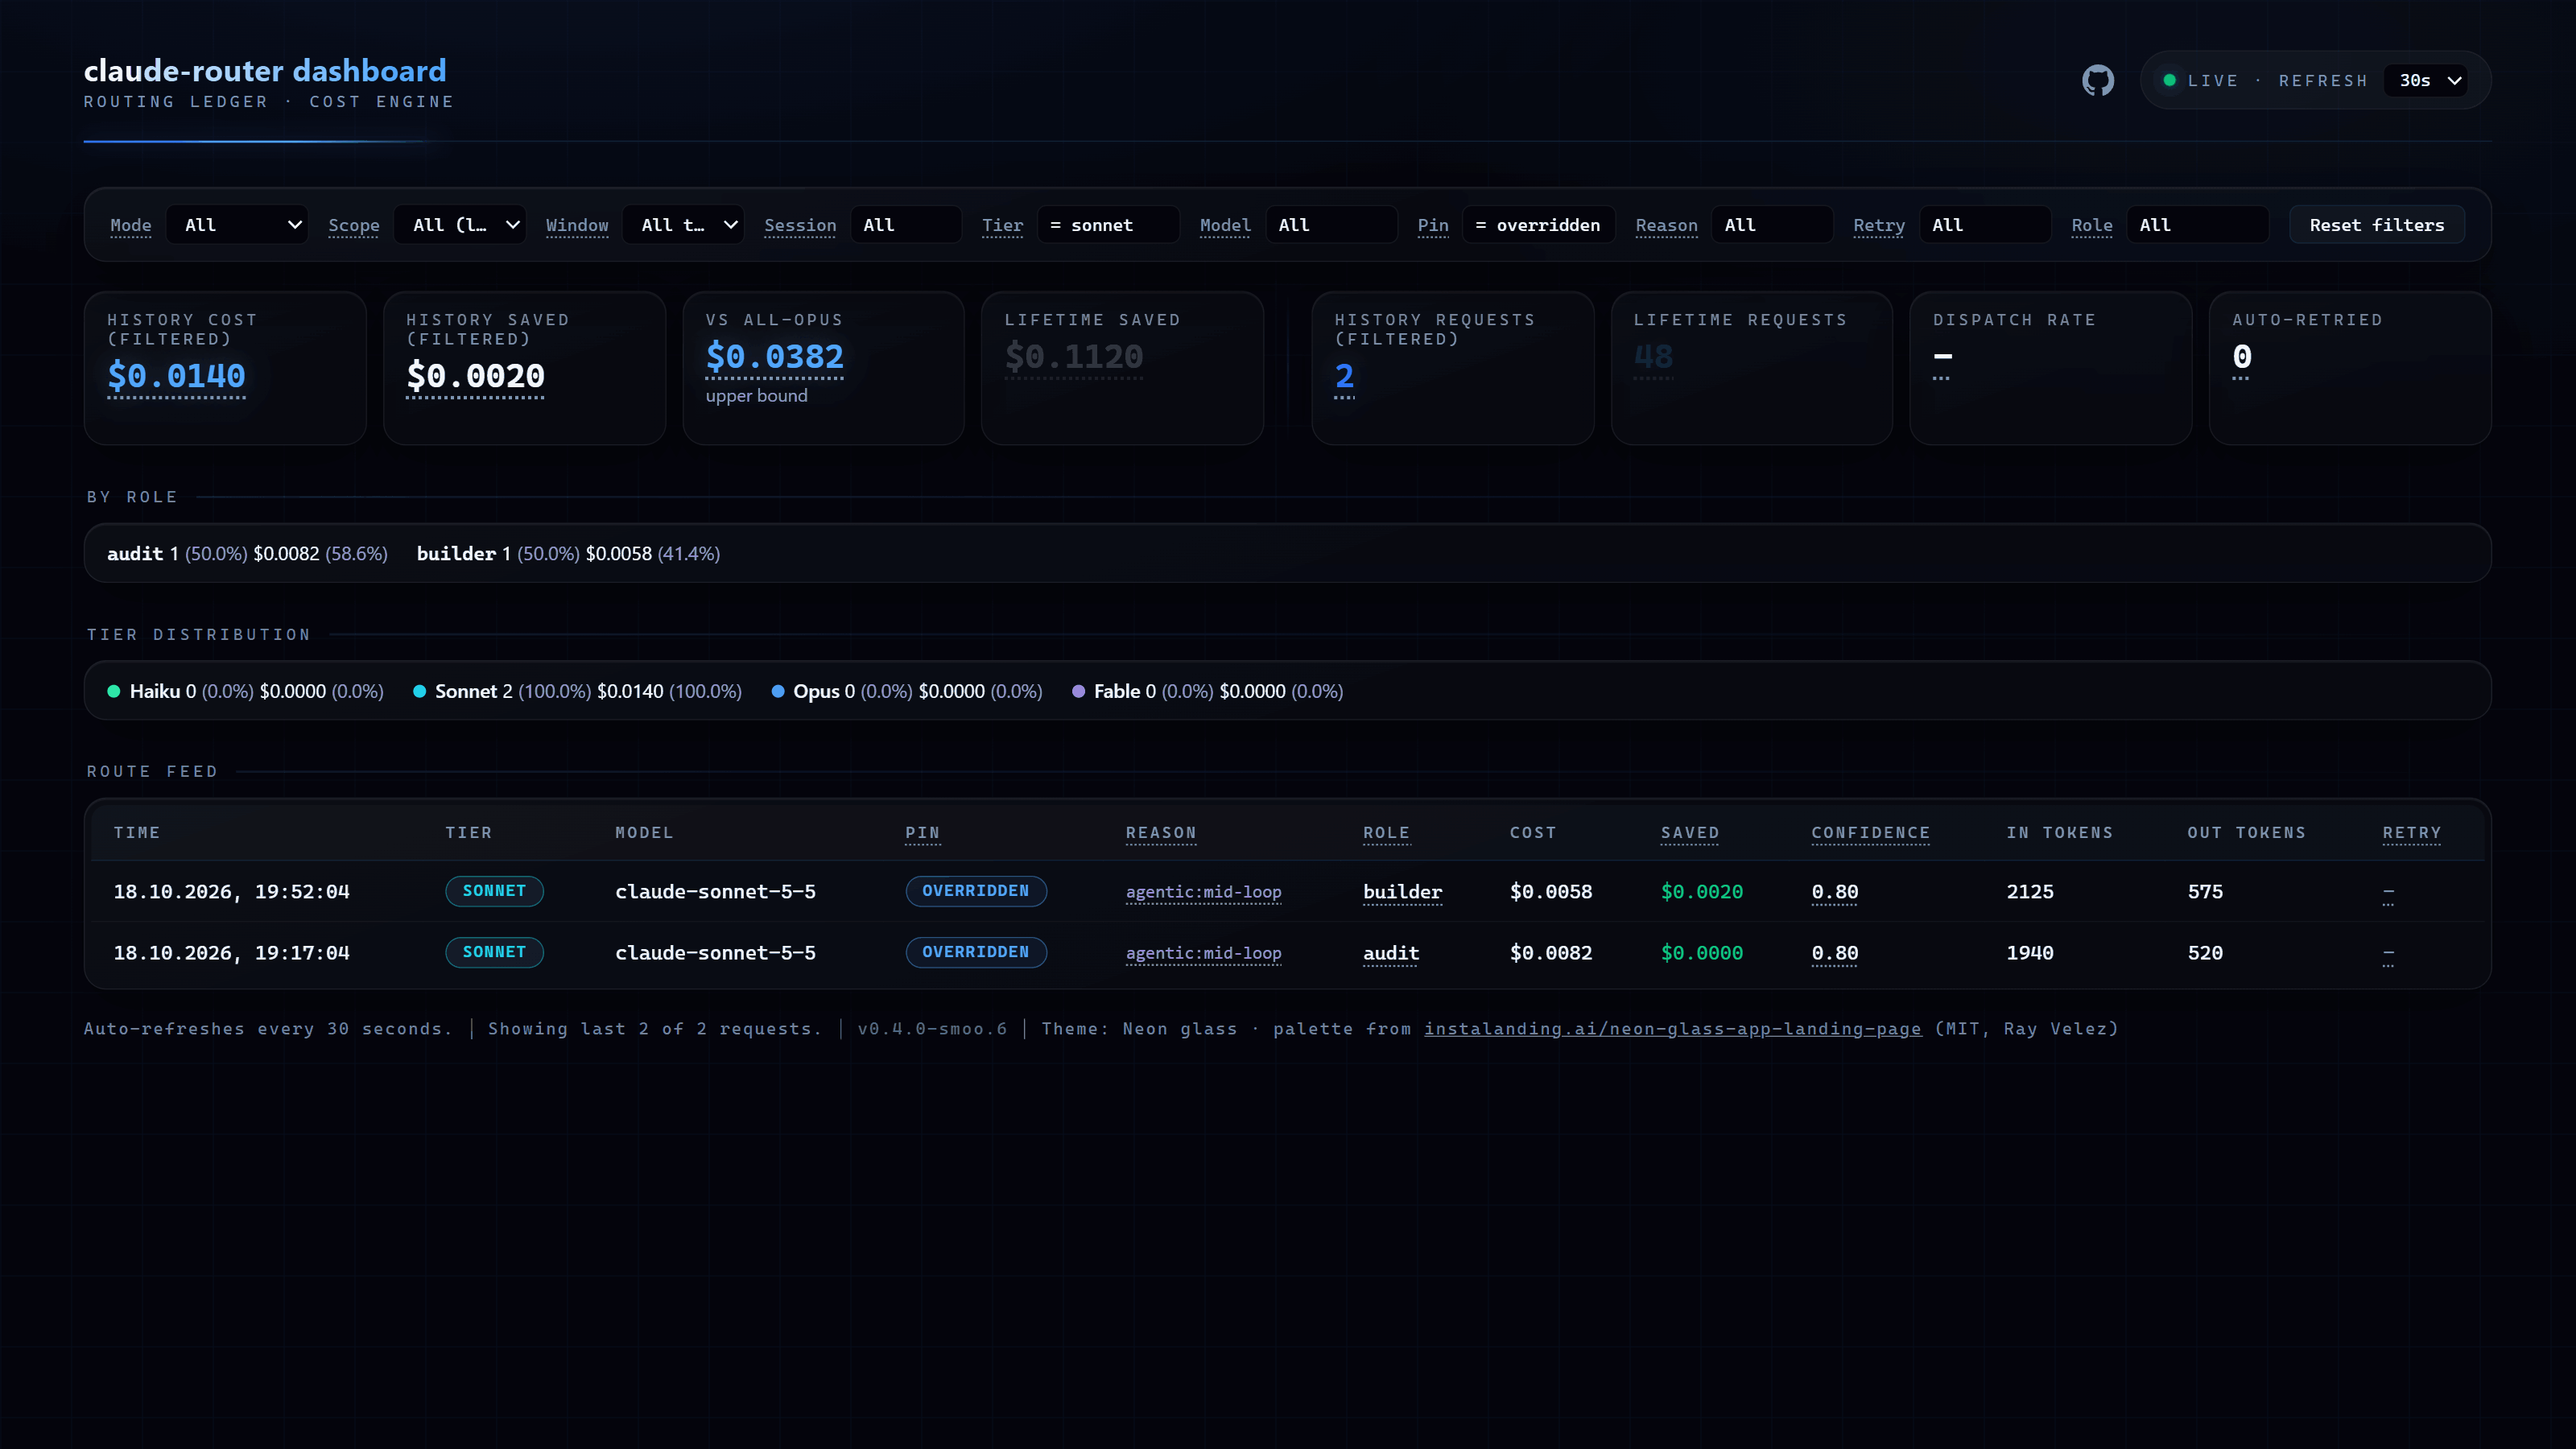
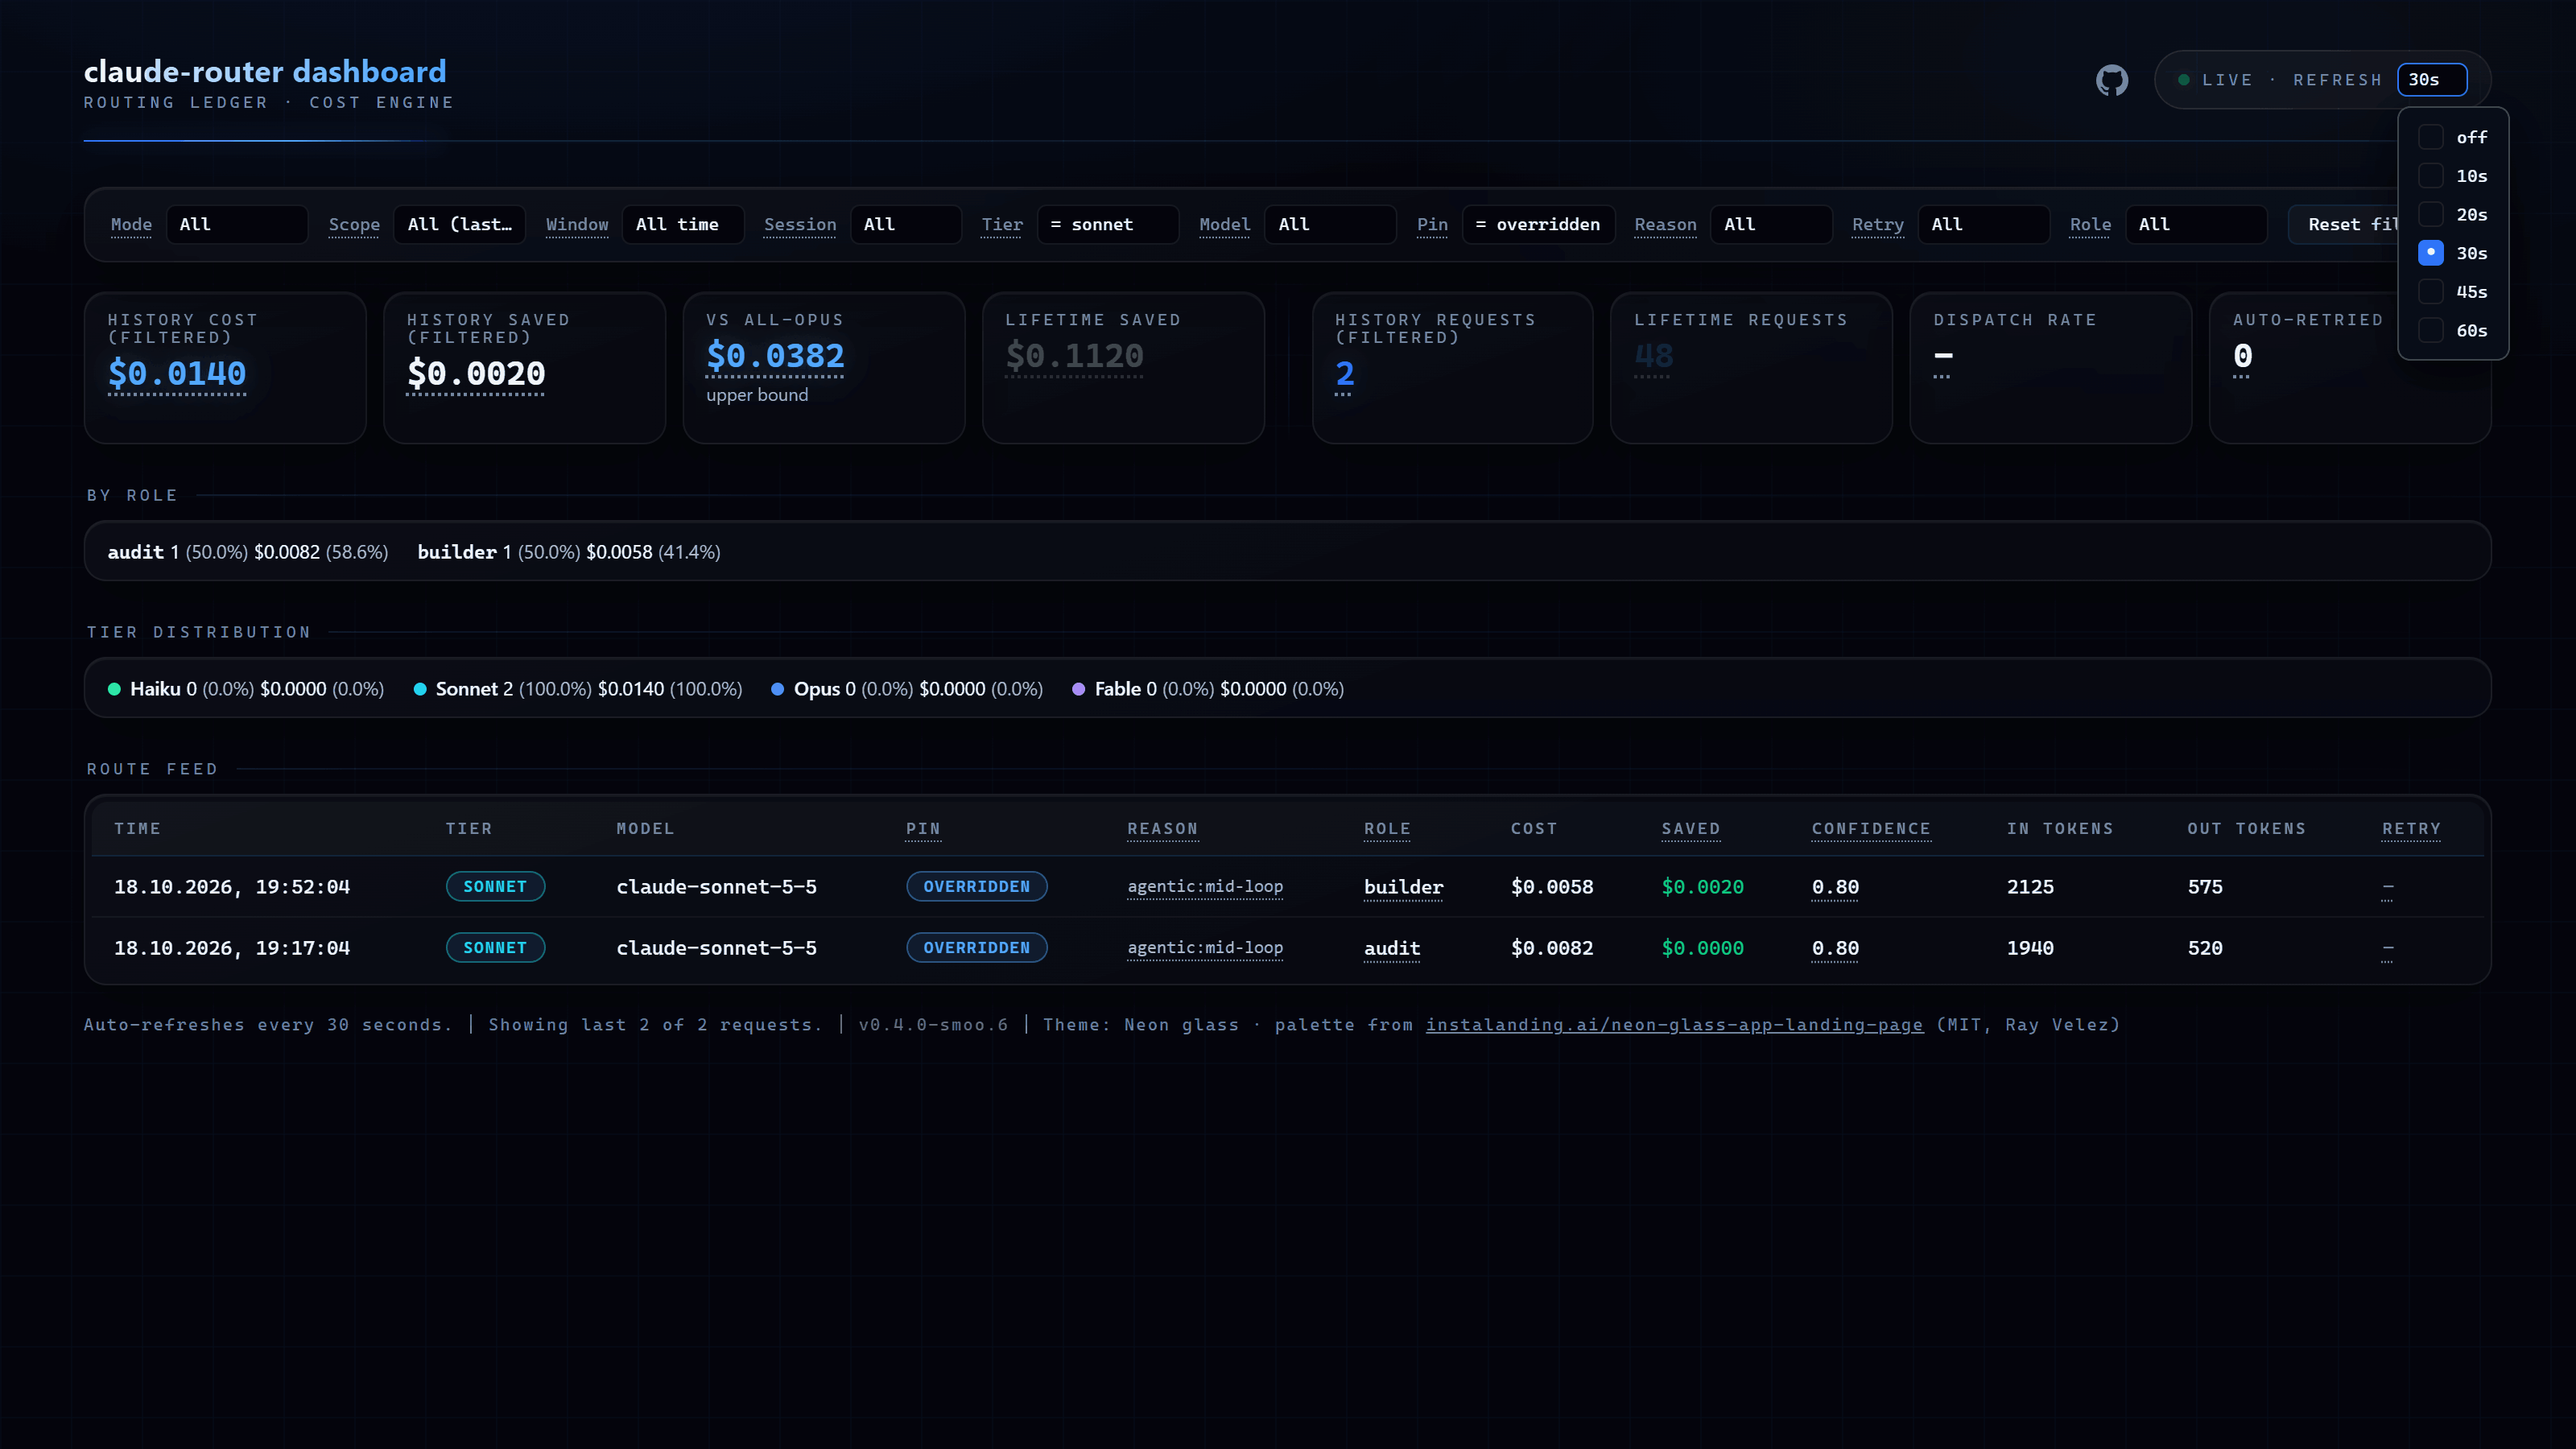
docs: recapture screenshots for the popover dashboard controls
Recapture every dashboard image from the current build (Mode multi-select, Scope, Window and Refresh popovers). The refresh, Mode and Window popups are shown truly open; observe-mode shows the multi-select Mode. README alt text, filter paragraph and CHANGELOG updated.

diff --git a/README.md b/README.md
@@ -35,17 +35,21 @@
 - **A `routingMode` switch.** `route` routes every call, `observe` forwards the client's model untouched but still records every request, and `off` forwards it untouched and records nothing. It is read once at start, so changing it takes a restart; `--force-route` and `forceRoute` remain aliases for `route` (and `forceRoute: false` for `observe`). `status`, `doctor`, the startup banner and the statusline show the active mode, and the dashboard can filter the recorded history by mode (including entries recorded before the switch existed) so the modes can be compared.
 - **A generated model and price list.** Prices and model ids come from a CI-generated list, read remote first, then from a local cache, then from a build-time snapshot. The default tiers are Haiku 5.5, Sonnet 5.5 and Opus 5.5 (Fable 5.1 when enabled). A tier id that equals a former built-in default is routed to the newest model of its family with a one-time warning, `install` rewrites it in the config, and `doctor` reports it. Models with a long-context price tier are billed at the higher rate once the prompt passes its threshold.
 - **A security gate and releases.** Every release goes through an `/appsec` and `/security-review` gate, versions are the upstream version plus a `-smoo.<n>` suffix, each release is published to npm and attached as a tarball, and a workflow opens a pull request whenever upstream tags a new release.
-- **Dashboard filters and cost display.** Filter by routing mode, role, model, tier, pin, reason, retry, session and time window (all time, today, last hour). Role, model, tier, pin, reason, retry and session take several values at once: every value starts shown, a click hides it (`!=`), a second click shows only it (`=`), and the bar keeps its width because the selection is summarised in an ellipsized entry (the URL carries `tier=opus&tier=sonnet` and `tier_ne=passthrough`), switch the scope between this session and the last 2000 history entries, pick the refresh interval (off, 10, 20, 30, 45 or 60 seconds), see in a Pin column whether the requested model was honored, and read every dollar amount with four decimals. The screenshots below come from a local build fed with synthetic history and invented session names, not real traffic; they show the tri-state popup open (one value hidden, one only) and the closed bar with its ellipsized summaries.
+- **Dashboard filters and cost display.** Filter by routing mode, role, model, tier, pin, reason, retry, session and time window (all time, today, last hour). Mode, role, model, tier, pin, reason, retry and session take several values at once: every value starts shown, a click hides it (`!=`), a second click shows only it (`=`), and the bar keeps its width because the selection is summarised in an ellipsized entry (the URL carries `tier=opus&tier=sonnet` and `tier_ne=passthrough`, or `mode_ne=route`). Scope (this session or the last 2000 history entries), window and the refresh interval (off, 10, 20, 30, 45 or 60 seconds) are single-select popovers in the same look. The Pin column shows whether the requested model was honored, and every dollar amount has four decimals. The screenshots below come from a local build fed with synthetic history and invented session names, not real traffic; they show the popups truly open (Mode with one value hidden, Session with one hidden and one only, Window, Refresh) and the closed bar with its ellipsized summaries.
 
 ![Dashboard overview: stat cards for cost and requests, By Role and Tier Distribution summaries, and the route feed with every filter set to All, the multi-value filters shown as compact All entries.](https://raw.githubusercontent.com/smoochy/Claude-router/smoo/main/docs/images/dashboard-overview.png)
 
-![Dashboard filtered to the observe routing mode: every row is a passthrough, and the stat cards and summaries recompute for just those requests.](https://raw.githubusercontent.com/smoochy/Claude-router/smoo/main/docs/images/dashboard-observe-mode.png)
+![Dashboard with the Mode filter set to "≠ Route" (the route mode hidden): every row is an observe-mode passthrough, and the stat cards and summaries recompute for just those requests.](https://raw.githubusercontent.com/smoochy/Claude-router/smoo/main/docs/images/dashboard-observe-mode.png)
+
+![Dashboard with the multi-select Mode filter popup open, listing Observe (shown, green check) and Route (hidden, red cross, struck through), the same tri-state rows as the other filters.](https://raw.githubusercontent.com/smoochy/Claude-router/smoo/main/docs/images/dashboard-mode-filter.png)
 
 ![Dashboard filtered to the gate role (shown as "= gate" in the Role filter) and the Today window: eight Opus requests, with the summaries recomputed for them.](https://raw.githubusercontent.com/smoochy/Claude-router/smoo/main/docs/images/dashboard-role-window.png)
 
 ![Dashboard filtered to overridden pins (Pin "= overridden") on Sonnet (Tier "= sonnet"), with the hover tooltip on an Overridden badge explaining that the client asked for Opus but the router billed Sonnet.](https://raw.githubusercontent.com/smoochy/Claude-router/smoo/main/docs/images/dashboard-pin-tooltip.png)
 
-![Dashboard with auto-refresh set to 30 seconds in the header, two filtered requests (Tier "= sonnet", Pin "= overridden"), and the footer reading Auto-refreshes every 30 seconds.](https://raw.githubusercontent.com/smoochy/Claude-router/smoo/main/docs/images/dashboard-auto-refresh.png)
+![Dashboard with the refresh-interval popover open below the Refresh control in the header, listing off, 10s, 20s, 30s, 45s and 60s with 30s selected, and the footer reading Auto-refreshes every 30 seconds.](https://raw.githubusercontent.com/smoochy/Claude-router/smoo/main/docs/images/dashboard-auto-refresh.png)
+
+![Dashboard with the single-select Window popover open, listing All time (selected), Today and Last hour in the same style as the multi-value filters.](https://raw.githubusercontent.com/smoochy/Claude-router/smoo/main/docs/images/dashboard-window-filter.png)
 
 ![Dashboard with the tri-state Session filter popup open, listing four invented session names and No session id: Write release notes is marked only (filled dot), Fix flaky unit test is hidden (red cross, struck through), and the other values are still shown (green check).](https://raw.githubusercontent.com/smoochy/Claude-router/smoo/main/docs/images/dashboard-session-filter.png)
 

diff --git a/CHANGELOG.md b/CHANGELOG.md
@@ -9,9 +9,8 @@ This fork's own sections use the upstream version plus a `-smoo.<n>` prerelease 
 
 ### Changed
 
-- README screenshots (2026-10-18): all dashboard images in `docs/images` are recaptured from a synthetic scratch HOME (viewport 1600, device scale 2) so they show the tri-state filters instead of the old selects. `dashboard-session-filter.png` now shows the open tri-state popup with one session hidden and one only, and the new `dashboard-filter-summary.png` shows the closed bar with ellipsized summaries. `dashboard-auto-refresh.png` no longer shows an open native select (an OS-drawn popup cannot be captured truthfully); it shows the 30 second setting and footer. README alt text and filter paragraph updated.
+- README screenshots (2026-10-18): all dashboard images in `docs/images` are recaptured from a synthetic scratch HOME (viewport 1600, device scale 2) so they show the tri-state filters instead of the old selects. `dashboard-session-filter.png` now shows the open tri-state popup with one session hidden and one only, and the new `dashboard-filter-summary.png` shows the closed bar with ellipsized summaries. Since Mode, Scope, Window and the refresh interval are now DOM popovers, the open refresh popover (`dashboard-auto-refresh.png`), the open Mode popup (new `dashboard-mode-filter.png`) and the open Window popover (new `dashboard-window-filter.png`) are real captures too, and `dashboard-observe-mode.png` shows the multi-select Mode as `≠ Route`. README alt text and filter paragraph updated.
 - The Mode filter is now a tri-state multi-value filter like Tier and Model (several modes at once, hide a mode, lines without a routingMode as "Unknown"); old `mode=all` and `mode=unknown` links still work. The single-select dashboard dropdowns (Scope, Window and the refresh interval) are now popovers in the look of the tri-state filters instead of native selects: same panel, rows, hover and spacing, the current row marked with a filled dot. Picking a row replaces the value, submits the form and closes the menu; Enter and Space work on a focused row. `auto=0` still renders no refresh script.
-
 - `RELEASING.md`: the Mac install section is confirmed accurate (no `file:` dependency, no shadowing binary), replacing the "unverified" note.
 
 ### Changed
